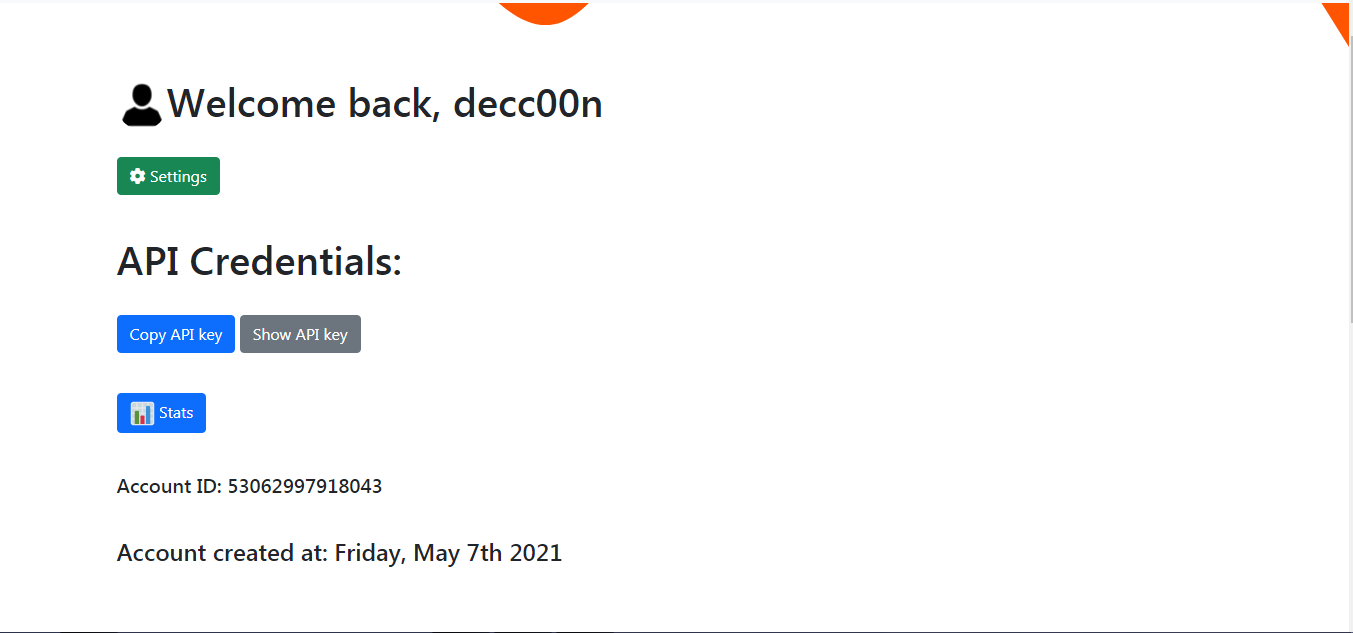
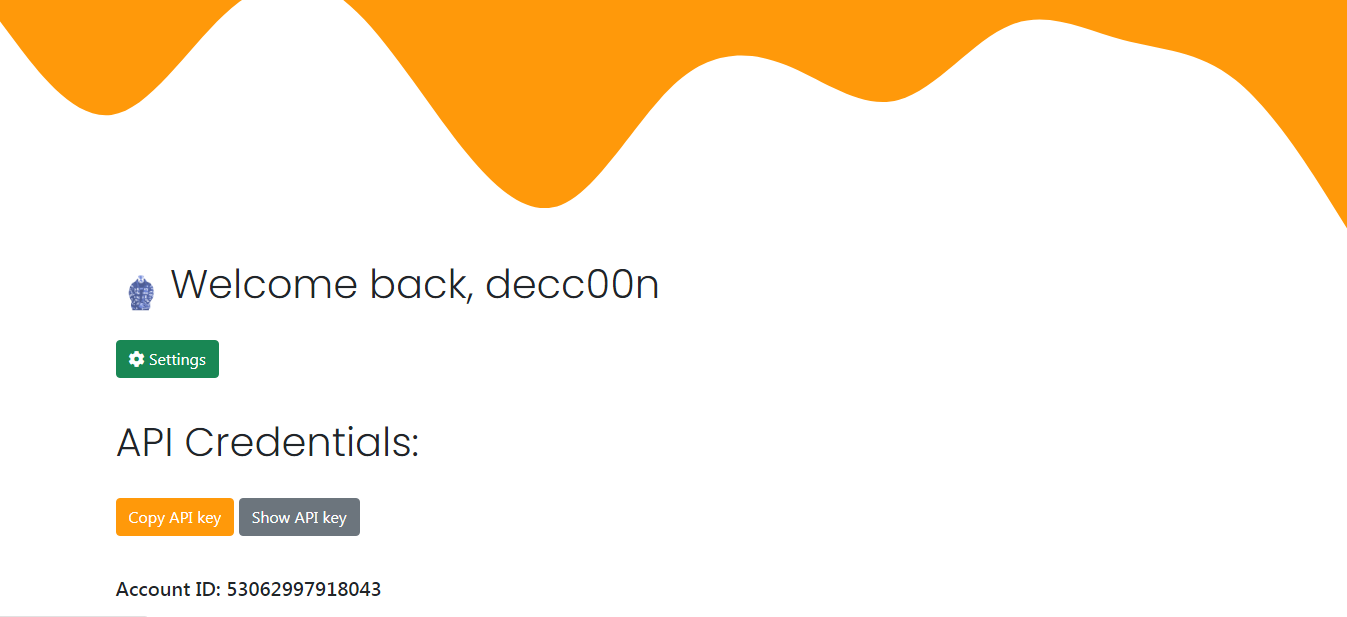
reverted back to old color, way pogger

diff --git a/src/public/custom.css b/src/public/custom.css
@@ -1,33 +1,33 @@
 ::selection,
 ::-moz-selection {
-  background-color: #ff990a;
+  background-color:#ff5500;
   color: white;
 }
 
 .btn-primary {
-  background-color: #ff990a !important;
-  border-color: #ff990a !important;
+  background-color:#ff5500 !important;
+  border-color:#ff5500 !important;
 }
 
 .btn-outline-primary {
-  color: #ff990a !important;
-  border-color: #ff990a !important;
+  color:#ff5500 !important;
+  border-color:#ff5500 !important;
 }
 
 .btn-outline-primary:hover {
-  background-color: #ff990a !important;
+  background-color:#ff5500 !important;
   color: white !important;
 }
 
 .btn-outline-primary:focus {
-  background-color: #ff990a !important;
+  background-color:#ff5500 !important;
   color: white !important;
 }
 
 .btn-primary:focus,
 .btn-outline-primary:focus,
 .form-control:focus {
-  border-color: #ff990a !important;
+  border-color:#ff5500 !important;
   box-shadow: 0 0 0 0.25rem rgb(255, 153, 10, 0.25) !important;
 }
 
